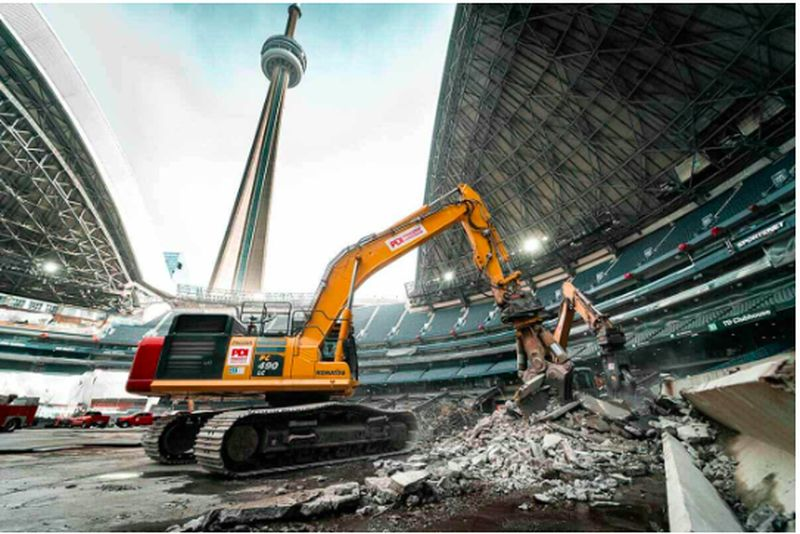
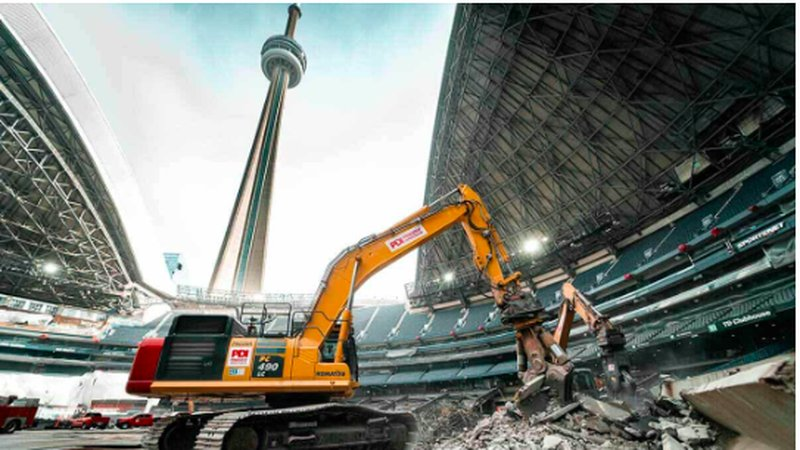
Show CN Tower in construction photo, remove for Free from button

diff --git a/src/containers/LandingPage/CustomLandingPage.js b/src/containers/LandingPage/CustomLandingPage.js
@@ -255,7 +255,7 @@ const FeaturedListings = () => (
     </div>
     <div className={css.featuredCta}>
       <NamedLink name="NewListingPage" className={css.featuredCtaButton}>
-        + List Your Attachment for Free
+        + List Your Attachment
       </NamedLink>
     </div>
   </section>
@@ -275,11 +275,6 @@ const TrustBanner = () => (
         <div className={css.trustStat}>
           <span className={css.trustStatNumber}>10+</span>
           <span className={css.trustStatLabel}>Provinces</span>
-        </div>
-        <div className={css.trustStatDivider} />
-        <div className={css.trustStat}>
-          <span className={css.trustStatNumber}>Free</span>
-          <span className={css.trustStatLabel}>To List</span>
         </div>
         <div className={css.trustStatDivider} />
         <div className={css.trustStat}>
